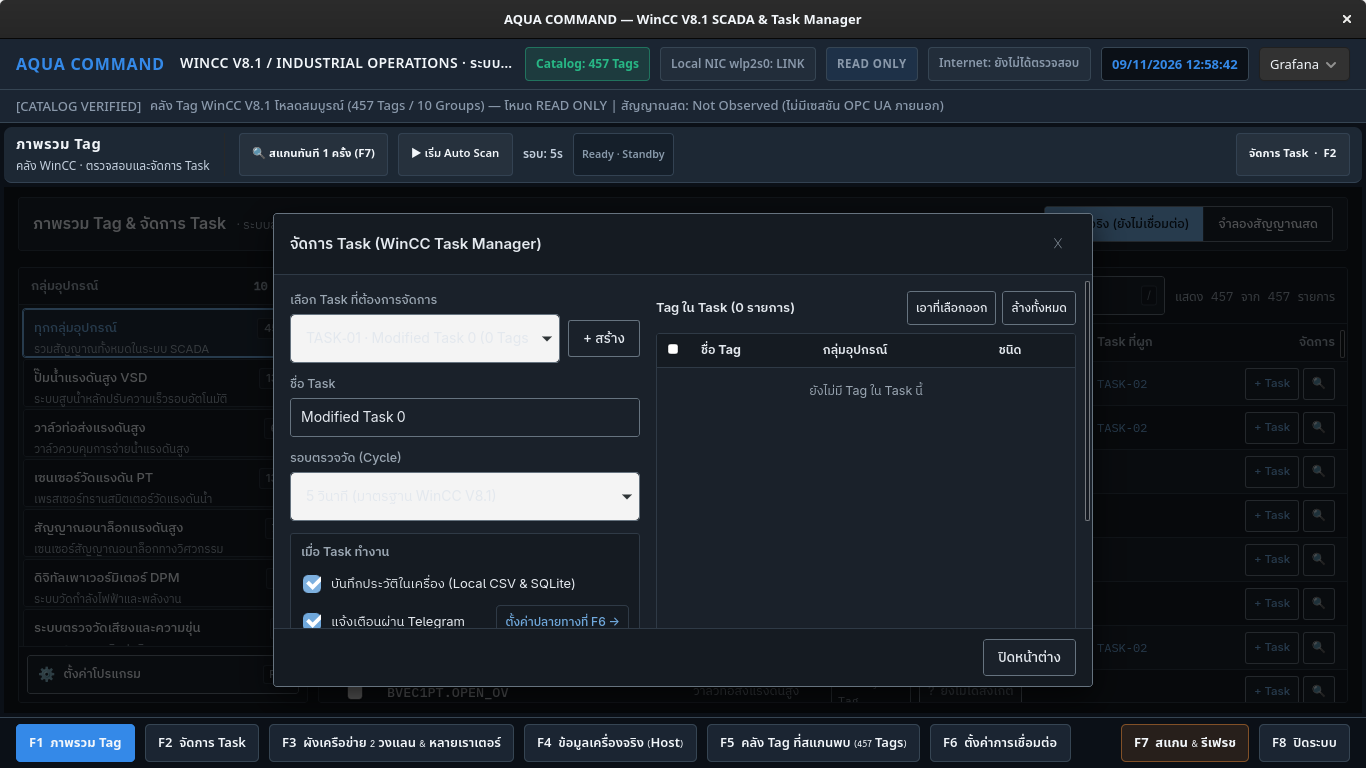
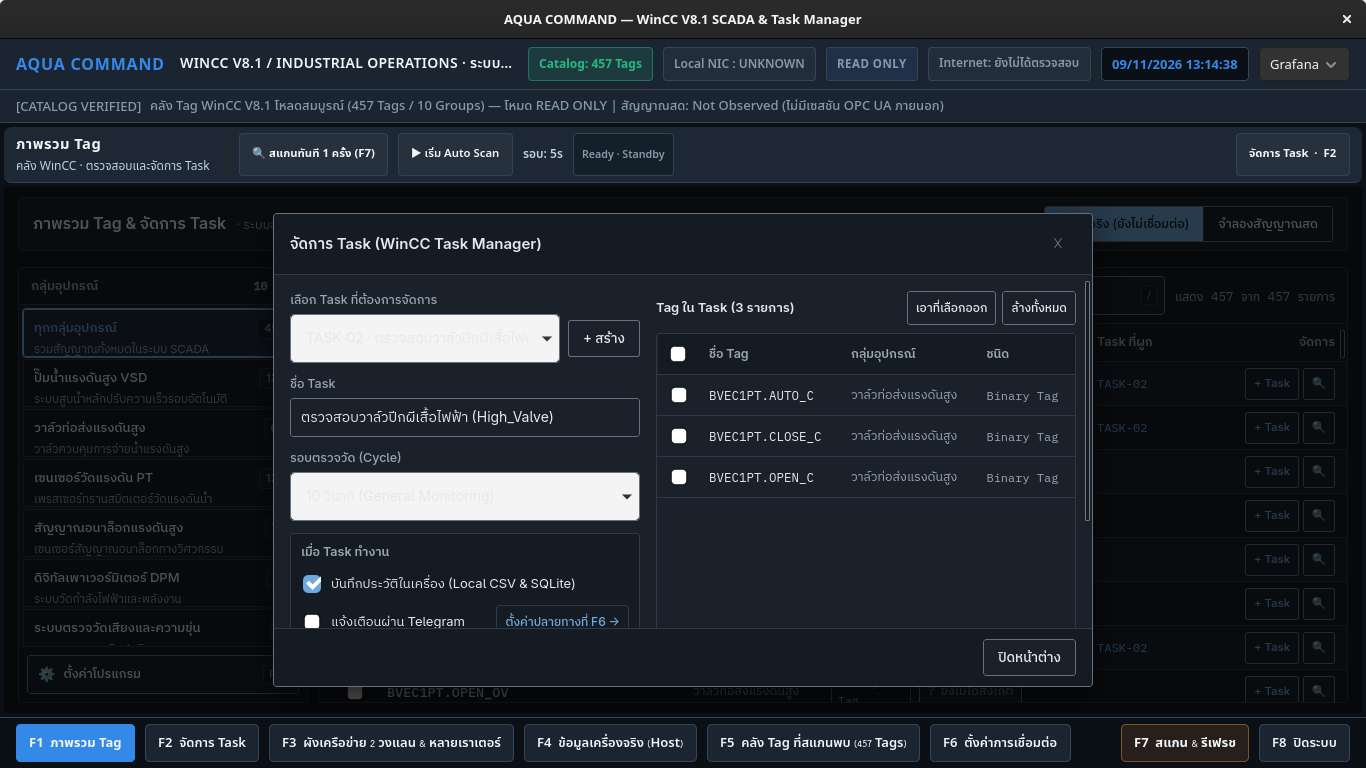
fix(f1): enable full row click, visual highlight, and range selection in task manager assigned tags table

diff --git a/aqua-command-desktop/desktop/f1_api/view.js b/aqua-command-desktop/desktop/f1_api/view.js
@@ -475,17 +475,17 @@
 
     const assignedTags = currentTask.tags || [];
     const assignedTagsRows = assignedTags.length === 0
-      ? `<tr><td colspan="4" style="text-align:center;color:var(--mut);padding:14px">ยังไม่มี Tag ใน Task นี้</td></tr>`
-      : assignedTags.map(tn => {
+      ? `<tr><td colspan="4" style="text-align:center;color:var(--mut);padding:18px">ยังไม่มี Tag ใน Task นี้</td></tr>`
+      : assignedTags.map((tn, idx) => {
         const tObj = state.tags.find(x => x.name === tn) || { type: 'Word', group: 'Default' };
         return `
-          <tr style="border-bottom:1px solid var(--line);cursor:pointer" data-assigned-tag="${escapeHtml(tn)}">
-            <td style="width:36px;padding:6px 8px">
-              <input type="checkbox" data-assigned-checkbox="${escapeHtml(tn)}" aria-label="เลือก ${escapeHtml(tn)}">
+          <tr class="assigned-tag-row" data-assigned-tag="${escapeHtml(tn)}" data-index="${idx}" role="row" tabindex="0">
+            <td class="cell-assigned-check">
+              <input type="checkbox" class="table-check" data-assigned-checkbox="${escapeHtml(tn)}" aria-label="เลือก ${escapeHtml(tn)}">
             </td>
-            <td class="mono" style="padding:6px 8px;font-weight:500">${escapeHtml(tn)}</td>
-            <td style="padding:6px 8px;color:var(--mut)">${escapeHtml(getGroupName(tObj.group))}</td>
-            <td class="mono" style="padding:6px 8px;color:var(--mut);font-size:12px">${escapeHtml(tObj.type || 'Word')}</td>
+            <td class="mono cell-assigned-name">${escapeHtml(tn)}</td>
+            <td class="cell-assigned-group" style="color:var(--mut)">${escapeHtml(getGroupName(tObj.group))}</td>
+            <td class="mono cell-assigned-type" style="color:var(--mut);font-size:12px">${escapeHtml(tObj.type || 'Word')}</td>
           </tr>
         `;
       }).join('');
@@ -561,18 +561,18 @@
             </div>
 
             <div style="flex:1;max-height:320px;overflow-y:auto;border:1px solid var(--line);border-radius:var(--radius);background:var(--surface)">
-              <table style="width:100%;font-size:12.5px;border-collapse:collapse;text-align:left">
-                <thead style="position:sticky;top:0;background:var(--surface-2);border-bottom:1px solid var(--line)">
+              <table class="assigned-tags-table">
+                <thead>
                   <tr>
-                    <th style="width:36px;padding:6px 8px">
-                      <input type="checkbox" id="chkSelectAllAssigned" aria-label="เลือกทั้งหมด">
+                    <th style="width:40px;text-align:center" id="thAssignedCheck">
+                      <input type="checkbox" id="chkSelectAllAssigned" class="table-check" aria-label="เลือกทั้งหมด">
                     </th>
-                    <th style="padding:6px 8px">ชื่อ Tag</th>
-                    <th style="padding:6px 8px">กลุ่มอุปกรณ์</th>
-                    <th style="padding:6px 8px">ชนิด</th>
+                    <th style="cursor:pointer" id="thAssignedTagName" title="คลิกเพื่อเลือกทั้งหมด">ชื่อ Tag</th>
+                    <th>กลุ่มอุปกรณ์</th>
+                    <th>ชนิด</th>
                   </tr>
                 </thead>
-                <tbody>${assignedTagsRows}</tbody>
+                <tbody id="assignedTagsTbody">${assignedTagsRows}</tbody>
               </table>
             </div>
           </div>
@@ -649,12 +649,124 @@
       };
     }
 
+    let lastAssignedIndex = -1;
+
+    function syncAssignedSelectionUI() {
+      const allRows = container.querySelectorAll('.assigned-tag-row');
+      let checkedCount = 0;
+      allRows.forEach(row => {
+        const chk = row.querySelector('[data-assigned-checkbox]');
+        const isChecked = !!(chk && chk.checked);
+        if (isChecked) checkedCount++;
+        row.classList.toggle('is-selected', isChecked);
+        row.setAttribute('aria-selected', isChecked ? 'true' : 'false');
+      });
+
+      const chkSelectAll = document.getElementById('chkSelectAllAssigned');
+      if (chkSelectAll) {
+        if (allRows.length === 0) {
+          chkSelectAll.checked = false;
+          chkSelectAll.indeterminate = false;
+        } else if (checkedCount === allRows.length) {
+          chkSelectAll.checked = true;
+          chkSelectAll.indeterminate = false;
+        } else if (checkedCount > 0) {
+          chkSelectAll.checked = false;
+          chkSelectAll.indeterminate = true;
+        } else {
+          chkSelectAll.checked = false;
+          chkSelectAll.indeterminate = false;
+        }
+      }
+
+      const btnRemoveSelected = document.getElementById('btnRemoveSelectedAssigned');
+      if (btnRemoveSelected) {
+        if (checkedCount > 0) {
+          btnRemoveSelected.textContent = `เอาที่เลือกออก (${checkedCount})`;
+          btnRemoveSelected.classList.remove('btn-secondary');
+          btnRemoveSelected.classList.add('btn-fail-active');
+        } else {
+          btnRemoveSelected.textContent = 'เอาที่เลือกออก';
+          btnRemoveSelected.classList.remove('btn-fail-active');
+          btnRemoveSelected.classList.add('btn-secondary');
+        }
+      }
+    }
+
+    function toggleAssignedRow(row, isShift, forceState) {
+      const chk = row.querySelector('[data-assigned-checkbox]');
+      if (!chk) return;
+      const rowIdx = parseInt(row.dataset.index, 10);
+      const allRows = Array.from(container.querySelectorAll('.assigned-tag-row'));
+
+      if (isShift && lastAssignedIndex >= 0 && lastAssignedIndex < allRows.length) {
+        const start = Math.min(lastAssignedIndex, rowIdx);
+        const end = Math.max(lastAssignedIndex, rowIdx);
+        const targetState = forceState !== undefined ? forceState : !chk.checked;
+        for (let i = start; i <= end; i++) {
+          const r = allRows[i];
+          const c = r.querySelector('[data-assigned-checkbox]');
+          if (c) c.checked = targetState;
+        }
+      } else {
+        chk.checked = forceState !== undefined ? forceState : !chk.checked;
+        lastAssignedIndex = rowIdx;
+      }
+      syncAssignedSelectionUI();
+    }
+
+    const tbody = container.querySelector('#assignedTagsTbody');
+    if (tbody) {
+      tbody.onclick = (e) => {
+        const row = e.target.closest('.assigned-tag-row');
+        if (!row) return;
+        if (e.target.type === 'checkbox') {
+          lastAssignedIndex = parseInt(row.dataset.index, 10);
+          syncAssignedSelectionUI();
+        } else {
+          e.preventDefault();
+          toggleAssignedRow(row, e.shiftKey);
+        }
+      };
+
+      tbody.onkeydown = (e) => {
+        const row = e.target.closest('.assigned-tag-row');
+        if (!row) return;
+        if (e.key === ' ' || e.code === 'Space') {
+          e.preventDefault();
+          toggleAssignedRow(row, e.shiftKey);
+        } else if (row && e.key === 'ArrowDown') {
+          const next = row.nextElementSibling;
+          if (next && next.classList.contains('assigned-tag-row')) {
+            e.preventDefault();
+            next.focus();
+          }
+        } else if (row && e.key === 'ArrowUp') {
+          const prev = row.previousElementSibling;
+          if (prev && prev.classList.contains('assigned-tag-row')) {
+            e.preventDefault();
+            prev.focus();
+          }
+        }
+      };
+    }
+
     // Select all assigned checkboxes
     const chkSelectAll = document.getElementById('chkSelectAllAssigned');
+    const thSelectAll = document.getElementById('thAssignedTagName');
     if (chkSelectAll) {
       chkSelectAll.onchange = () => {
-        const boxes = document.querySelectorAll('[data-assigned-checkbox]');
+        const boxes = container.querySelectorAll('[data-assigned-checkbox]');
         boxes.forEach(b => b.checked = chkSelectAll.checked);
+        syncAssignedSelectionUI();
+      };
+    }
+    if (thSelectAll) {
+      thSelectAll.onclick = (e) => {
+        if (chkSelectAll) {
+          chkSelectAll.checked = !chkSelectAll.checked;
+          chkSelectAll.onchange();
+        }
       };
     }
 
@@ -663,7 +775,7 @@
     if (btnRemoveSelected) {
       btnRemoveSelected.onclick = () => {
         const selectedNames = [];
-        document.querySelectorAll('[data-assigned-checkbox]:checked').forEach(b => {
+        container.querySelectorAll('[data-assigned-checkbox]:checked').forEach(b => {
           selectedNames.push(b.dataset.assignedCheckbox);
         });
         if (selectedNames.length === 0) return;
@@ -938,16 +1050,6 @@
         e.stopPropagation();
         const tagName = inspectBtn.dataset.inspectTag;
         openInspector(tagName);
-        return;
-      }
-
-      // Assigned tag row click in Task Manager dialog (toggles assigned checkbox)
-      const assignedTr = e.target.closest('tr[data-assigned-tag]');
-      if (assignedTr && e.target.type !== 'checkbox') {
-        const chk = assignedTr.querySelector('input[type="checkbox"]');
-        if (chk) {
-          chk.checked = !chk.checked;
-        }
         return;
       }
 

diff --git a/aqua-command-desktop/desktop/f1_api/view.css b/aqua-command-desktop/desktop/f1_api/view.css
@@ -825,6 +825,84 @@ html, body {
   accent-color: var(--accent);
 }
 
+/* Task Dialog: Assigned Tags Table & Row Interaction */
+.assigned-tags-table {
+  width: 100%;
+  font-size: 12.5px;
+  border-collapse: collapse;
+  text-align: left;
+}
+
+.assigned-tags-table th {
+  position: sticky;
+  top: 0;
+  background: var(--surface-2);
+  border-bottom: 1px solid var(--line);
+  padding: 8px 10px;
+  font-weight: 600;
+  color: var(--mut);
+  user-select: none;
+}
+
+.assigned-tag-row {
+  border-bottom: 1px solid var(--line);
+  cursor: pointer;
+  transition: background 0.12s ease-out, border-color 0.12s ease-out;
+  user-select: none;
+}
+
+.assigned-tag-row:hover {
+  background: var(--surface-2);
+}
+
+.assigned-tag-row.is-selected,
+.assigned-tag-row[aria-selected="true"] {
+  background: var(--selected);
+}
+
+.assigned-tag-row.is-selected .cell-assigned-name {
+  color: var(--accent);
+  font-weight: 600;
+}
+
+.assigned-tag-row td {
+  padding: 8px 10px;
+  vertical-align: middle;
+}
+
+.assigned-tag-row td.cell-assigned-check {
+  width: 40px;
+  padding: 8px 6px;
+  text-align: center;
+}
+
+.assigned-tag-row.is-selected td:first-child {
+  border-left: 3px solid var(--accent);
+}
+
+.assigned-tag-row:not(.is-selected) td:first-child {
+  border-left: 3px solid transparent;
+}
+
+.table-check {
+  width: 18px;
+  height: 18px;
+  cursor: pointer;
+  accent-color: var(--accent);
+  vertical-align: middle;
+}
+
+.btn-fail-active {
+  background: var(--fail-tint);
+  color: var(--fail);
+  border: 1px solid var(--fail);
+}
+
+.btn-fail-active:hover {
+  background: var(--fail);
+  color: var(--on-accent);
+}
+
 /* Highlight matching search */
 mark.search-match {
   background: var(--accent-tint);

diff --git a/aqua-command-desktop/desktop/tests/test_f1_api_view.py b/aqua-command-desktop/desktop/tests/test_f1_api_view.py
@@ -369,6 +369,21 @@ class TestF1ApiViewContracts(unittest.TestCase):
         owner.switch_to_tab.assert_called_once_with('alarms')
         view._send_bridge_response.assert_called_once_with('req-f6', ok=True, revision=1)
 
+    def test_15_task_dialog_assigned_row_selection_and_sync(self):
+        view_css = (ASSETS_DIR / 'view.css').read_text(encoding='utf-8')
+        view_js = (ASSETS_DIR / 'view.js').read_text(encoding='utf-8')
+
+        # CSS rules for assigned tag row selection and custom check
+        self.assertIn('.assigned-tags-table', view_css)
+        self.assertIn('.assigned-tag-row', view_css)
+        self.assertIn('.assigned-tag-row.is-selected', view_css)
+        self.assertIn('.table-check', view_css)
+
+        # JS functions for row clicking, sync, and range selection
+        self.assertIn('syncAssignedSelectionUI', view_js)
+        self.assertIn('toggleAssignedRow', view_js)
+        self.assertIn('assigned-tag-row', view_js)
+
 
 if __name__ == '__main__':
     unittest.main()

diff --git a/aqua-command-desktop/scripts/capture_f1_screenshots.py b/aqua-command-desktop/scripts/capture_f1_screenshots.py
@@ -86,10 +86,12 @@ def capture_all():
     spin(0.6)
     snap_widget(win1366, out_dir / "f1_tag_overview_1366x768.png")
 
-    # Open WebKit Task Manager Dialog (F2)
-    win1366.activate_workspace_mode('task_manager')
-    spin(0.6)
-    ws = win1366.unified_workspace
+    # Open WebKit Task Manager Dialog (F2) for TASK-02 (with assigned tags)
+    if hasattr(win1366, 'unified_workspace') and win1366.unified_workspace.f1_api:
+        win1366.unified_workspace.f1_api.open_task_dialog('TASK-02')
+    else:
+        win1366.activate_workspace_mode('task_manager')
+    spin(0.8)
     # When F1ApiView is active, Task Manager is rendered inside the WebKit workspace
     snap_widget(win1366, out_dir / "f1_task_manager_dialog_1366x768.png")
 
